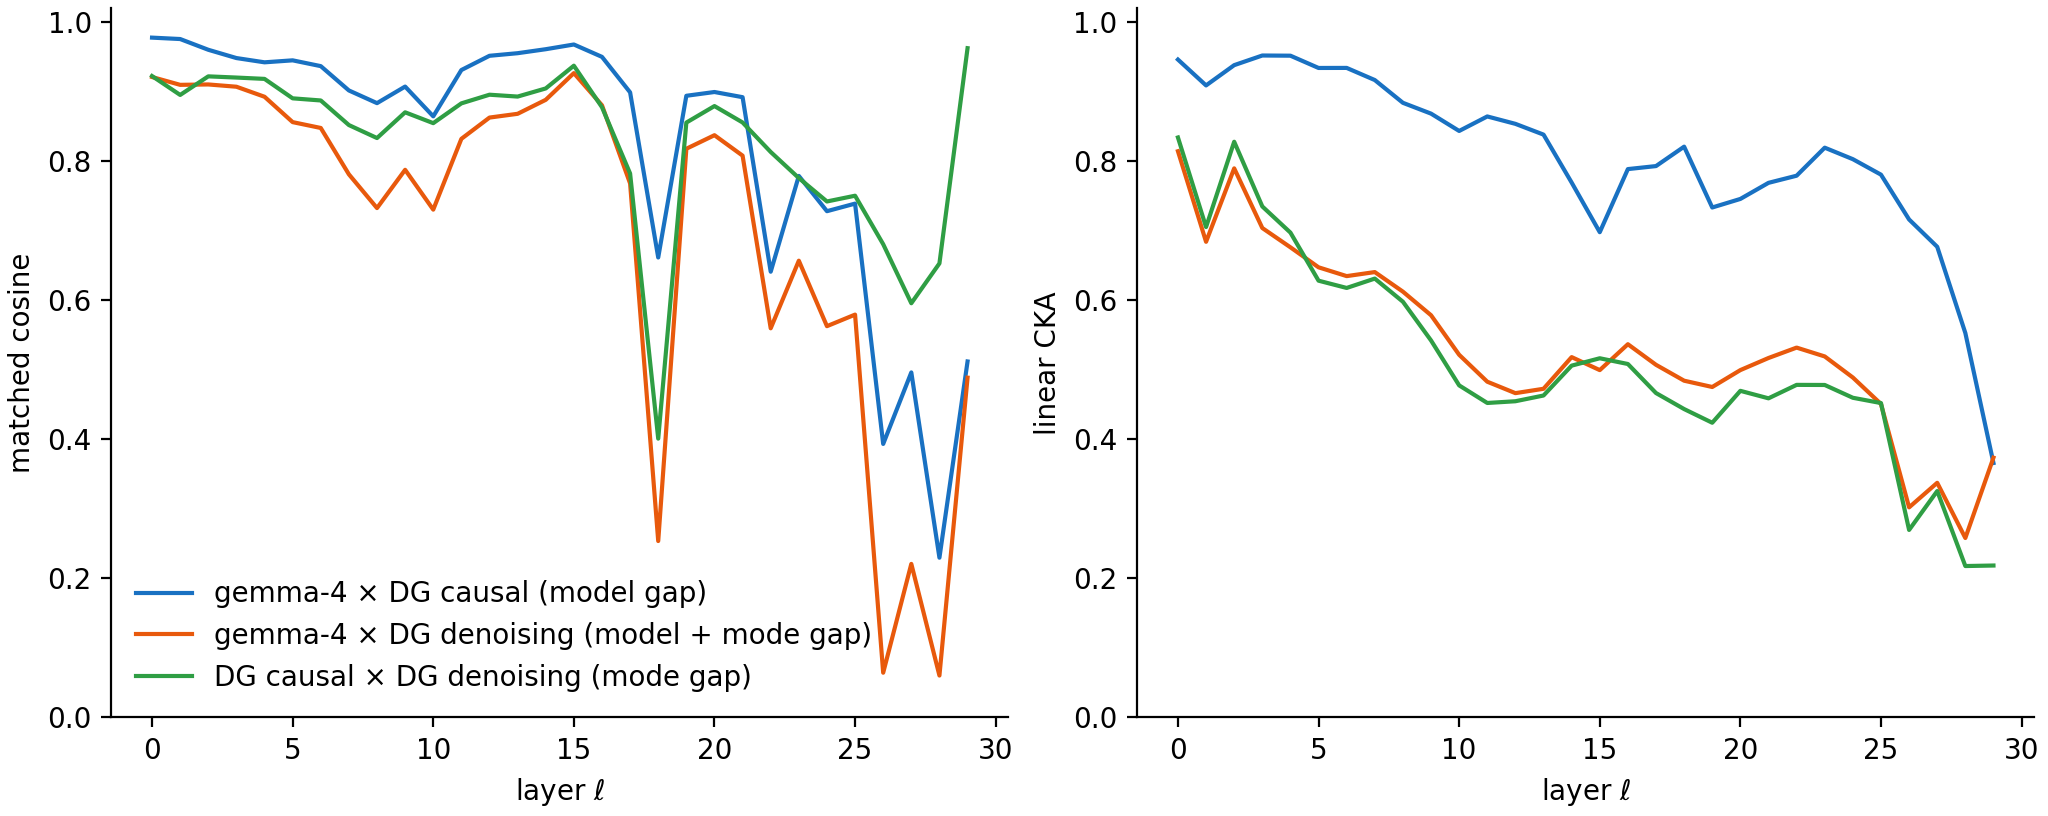
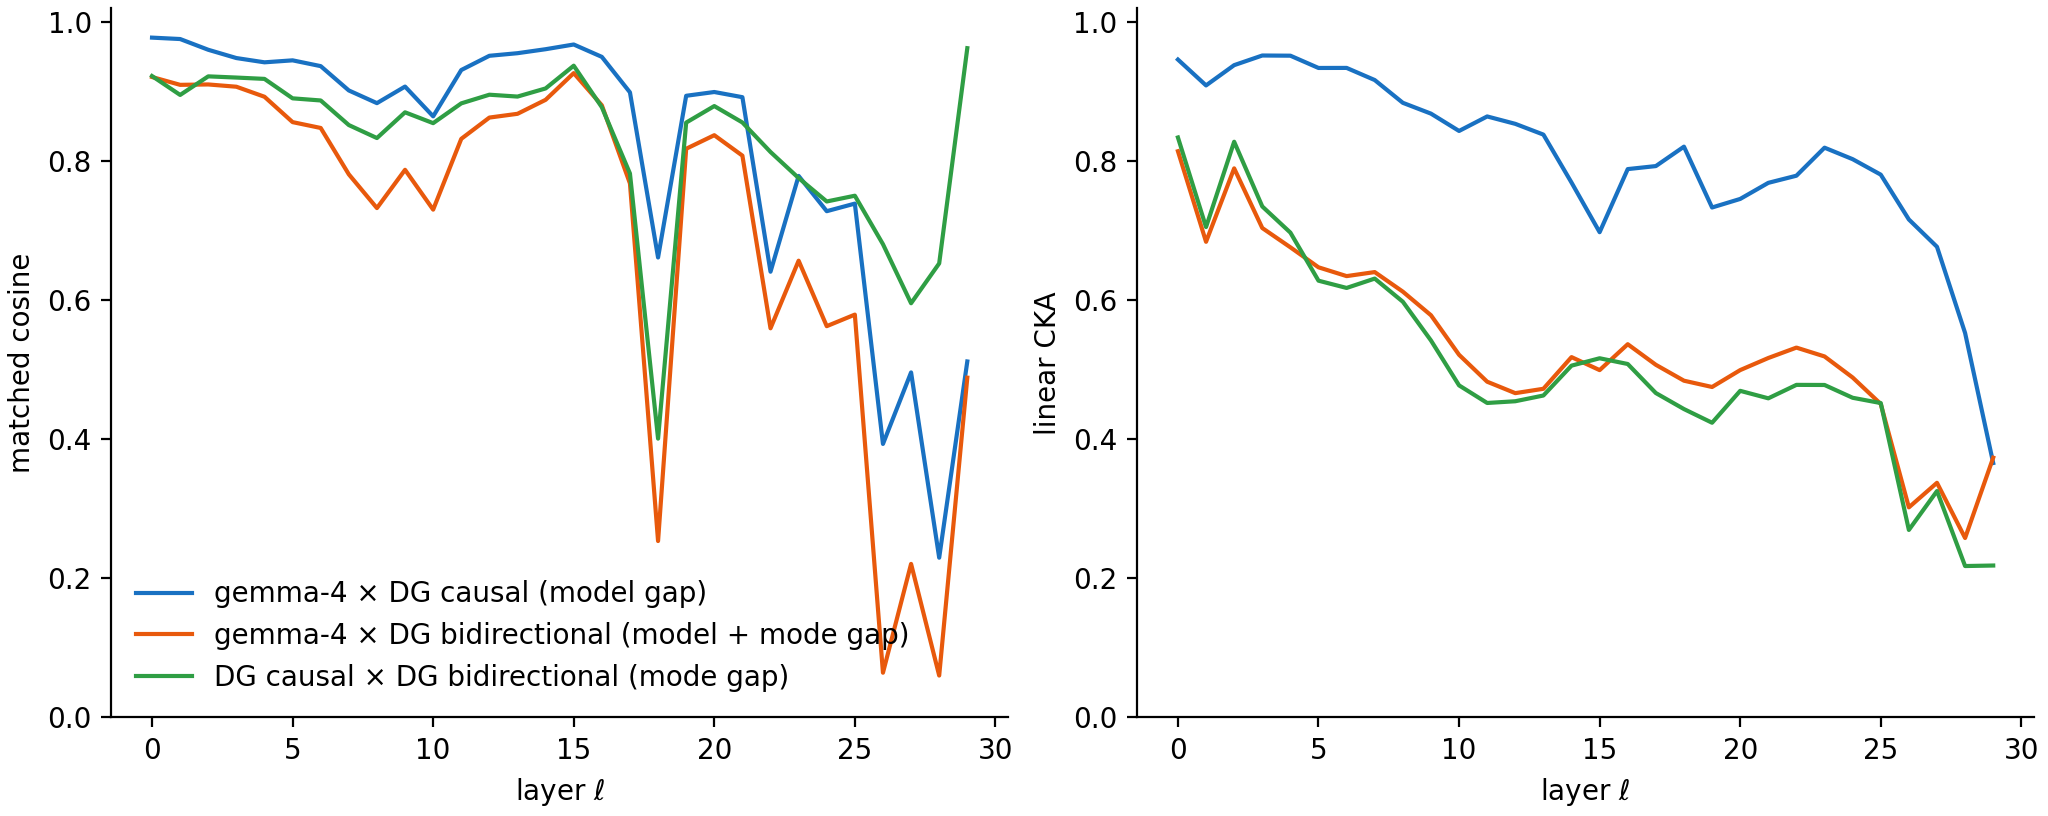
Rename mode label denoising -> bidirectional everywhere; J-Lens card highlights the lens read token
Claude-Session: https://claude.ai/code/session_01U8CiyQ7ySpBDkYEq4FzNBU

diff --git a/post.html b/post.html
@@ -42,6 +42,7 @@ p>em:first-child{color:var(--muted)}
 .anntok{display:inline-flex;flex-direction:column;align-items:center;vertical-align:top}
 .annlab{font-size:.8em;color:var(--muted);line-height:1.1}
 .kn{color:var(--muted);font-size:.9em;font-family:system-ui,sans-serif}
+.readtok{color:#fff;border-radius:3px;padding:0 .3em}
 .card u{text-decoration-color:var(--accent);text-underline-offset:2px}
 .lrow{display:flex;align-items:center;gap:5px;margin:3px 0;flex-wrap:wrap}
 .llab{font:600 .85em system-ui;color:var(--muted);width:2.4em}
@@ -73,7 +74,7 @@ code.gen.chip{padding:.15em .45em;border-radius:4px;white-space:pre}
 $$</p>
 <p>where $T$ is the number of diffusion steps. Importantly, $x_t$ attends bidirectionally to itself, and causally to $p$. $\mathbf{S}_t[x_t]$ also functions as a confidence score for any token $x_t$: unless a confidence threshold is passed, $x_t$ gets replaced with a random token at every step $t$, facilitating exploration and correction. Two consequences matter for this post: at such open positions the canvas carries no information from one step to the next — $\mathbf{S}_t$ is the only memory the model has there — and the pace of commitment is set by this confidence gate, so anything that artificially sharpens $\mathbf{S}_t$ (such as truncating it to its top-k entries) makes the gate commit more positions, earlier.</p>
 <p>For a visual and more detailed introduction to DiffusionGemma, see <a href="https://newsletter.maartengrootendorst.com/p/a-visual-guide-to-diffusiongemma">this post</a>.</p>
-<p>Thus, generation in DiffusionGemma differs in the following ways:</p>
+<p>Thus, generation in DiffusionGemma mainly differs in the following ways:</p>
 <ol><li>Generation happens as reverse diffusion, not as token-by-token autoregression. This is reminiscent of a looped transformer.</li><li>Attention is bidirectional.</li><li>Between every diffusion step, not only the current text output is sampled, but the output distributions $\mathbf{S}_t$ across all positions are also passed to the next diffusion step $t+1$.</li></ol>
 <p>The last point is especially interesting, since it passes the vector-valued object between diffusion steps, in addition to the tokens $x_t$ lacking the $|\mathcal{V}|$ axis. A priori, this allows the model to transport drastically more information between diffusion steps in an illegible way, hindering monitorability.</p>
 <h2>Performance degradation from top-k truncation largely is a sampler artifact</h2>
@@ -95,7 +96,7 @@ $$</p>
 <figure><img src="figs/fig2a_example_intervention.png" alt="Example intervention"></figure>
 <p>Example of one intervention: a subleading injection on ``<code>H</code>`<code> (the leader </code>`<code>G</code>`<code> keeps rank 1) swings the answer slot from </code>`<code>J</code>`<code>  to </code>`<code>K</code>`<code>=</code>`<code>H+3</code>``  one step later.</p>
 <h3>Parallelism</h3>
-<p>This simple response behavior begs the question whether it is possible to perturb $n>1$ source letters _simulteaneously_ (again, keeping them subleading) and see whether the corresponding target images respond. To this end, we measure responses $\langle R_c\rangle_{T_c}$ and $\langle R_c\rangle_{N_c}$ averaged over the target and non-target sets, respectively, and introduce the _effect_ $E_c = \langle R_c\rangle_{T_c} - \langle R_c\rangle_{N_c}$. Because we now inject mass at multiple positions and observe proportionally scaled response, we calculate a _normalized effect_ $NE$.</p>
+<p>This simple response behavior begs the question whether it is possible to perturb $n>1$ source letters _simultaneously_ (again, keeping them subleading) and see whether the corresponding target images respond. To this end, we measure responses $\langle R_c\rangle_{T_c}$ and $\langle R_c\rangle_{N_c}$ averaged over the target and non-target sets, respectively, and introduce the _effect_ $E_c = \langle R_c\rangle_{T_c} - \langle R_c\rangle_{N_c}$. Because we now inject mass at multiple positions and observe proportionally scaled response, we calculate a _normalized effect_ $NE$.</p>
 <figure><img src="figs/fig2b_triptych.png" alt="Parallelism triptych"></figure>
 <p>_DiffusionGemma does simultaneous letter arithmetic to about a capacity of $n=4$._</p>
 <p>This behavior is plausible considering the computation in question: a shift is easily implemented by a linear rotation in representation space. Therefore, superpositions of letters will be transported to superpositions of responses. Overall, this leaves an interpretable picture.</p>
@@ -105,14 +106,15 @@ $$</p>
 <h2>Appendix</h2>
 <p>The findings in Engels et al. and in this post have focussed on DiffusionGemma's behavior. We here study whether the model's representation supports the behavioral finding of high monitorability.</p>
 <h3>A1: Representation similarity (cosine &amp; CKA)</h3>
+<p>We first ask about how the representation changes between Gemma and DiffusionGemma. </p>
 <figure><img src="figs/figA1_rsa_cosine_cka.png" alt="RSA cosine and CKA"></figure>
-<p><em>Left: matched cosine; right: linear CKA (per layer, 3,584 texts). Mid-stack alignment is high across models and degrades from the deep global-attention layers on; the causal↔denoising mode switch — same weights — costs as much as the model gap (mean CKA 0.51 vs 0.81), and the gaps compound.</em></p>
+<p><em>Left: matched cosine; right: linear CKA (per layer, 3,584 texts). Mid-stack alignment is high across models and degrades from the deep global-attention layers on; the causal↔bidirectional mode switch — same weights — costs as much as the model gap (mean CKA 0.51 vs 0.81), and the gaps compound.</em></p>
 <h3>A2: Probe retention</h3>
 <figure><img src="figs/figA2_probe_retention.png" alt="Probe retention"></figure>
 <p><em>Top: mean held-out AUC (56 concepts, source-CV layer) — cross-model reading costs ~0.03 in both directions. Bottom: a held-out pair read by the same gemma-trained probe on both models' activations.</em></p>
 <h3>A3: Steering retention</h3>
 <figure><img src="figs/figA3_steer_retention.png" alt="Steering retention"></figure>
-<p><em>Top: blind-pair judge accuracy (judge must identify +steer vs −steer), 11 RepE tasks — every cell steers (0.70–0.85); denoising-mode directions are the weakest sources. Bottom: the same gemma-fit happiness direction applied to gemma-4 and DiffusionGemma side by side (±steer on one carrier); judge digests in italics.</em></p>
+<p><em>Top: blind-pair judge accuracy (judge must identify +steer vs −steer), 11 RepE tasks — every cell steers (0.70–0.85); bidirectional-mode directions are the weakest sources. Bottom: the same gemma-fit happiness direction applied to gemma-4 and DiffusionGemma side by side (±steer on one carrier); judge digests in italics.</em></p>
 <h3>A4: J-Lens retention</h3>
 <figure><img src="figs/figA4_jlens_retention.png" alt="J-Lens retention"></figure>
 <p><em>Top: mean GT-appearance score $A=1-e^{-n}$ ($n$ = matching top-20 lens tokens; 551 items) — fitted Jacobian lenses transfer across the AR/diffusion boundary (gemma→DG retention ≈0.76). Bottom: top-5 lens tokens per audited layer for one poetry item, read on gemma-4 vs DG residuals with the same DG-fit Jacobian — both streams surface the ground-truth intermediate ('death') at L20.</em></p>

diff --git a/scripts/build_html.py b/scripts/build_html.py
@@ -166,13 +166,20 @@ def ill_jlens_pair():
             + "".join(chip(tk) for tk in d["tops"][test][str(L)]) + "</div>"
             for L in d["layers"])
         return f'<div><h4>{lab}</h4>{rows}</div>'
+    READ = "#1971c2"
+    tail = d["tail"].strip()
+    pre, readtok = tail.rsplit(" ", 1)
+    tail_html = (f'<code class="gen">{E(pre)} '
+                 f'<span class="readtok" style="background:{READ}">{E(readtok)}</span></code>')
     return f"""<div class="card">
 {pills(f"{d['config_label']}, top-5 tokens per audited layer",
        f"item: {d['name']} ({d['set']})", f"ground-truth intermediate: {', '.join(d['intermediates'])}")}
-<p class="small">prompt tail: <code class="gen">{E(d['tail'].strip())}</code></p>
+<p class="small">prompt tail: {tail_html}</p>
 <div class="cols2">{side('g', 'read on gemma-4 residuals')}{side('dg', 'read on DG residuals')}</div>
 <span class="leg"><i style="background:{GT}"></i> ground-truth intermediate
-('{E(d['intermediates'][0])}', incl. variants) &nbsp;·&nbsp; layers deep → shallow</span>
+('{E(d['intermediates'][0])}', incl. variants)
+<i style="background:{READ}"></i> lens read position (residual at the final prompt token)
+&nbsp;·&nbsp; layers deep → shallow</span>
 </div>"""
 
 
@@ -226,6 +233,7 @@ p>em:first-child{color:var(--muted)}
 .anntok{display:inline-flex;flex-direction:column;align-items:center;vertical-align:top}
 .annlab{font-size:.8em;color:var(--muted);line-height:1.1}
 .kn{color:var(--muted);font-size:.9em;font-family:system-ui,sans-serif}
+.readtok{color:#fff;border-radius:3px;padding:0 .3em}
 .card u{text-decoration-color:var(--accent);text-underline-offset:2px}
 .lrow{display:flex;align-items:center;gap:5px;margin:3px 0;flex-wrap:wrap}
 .llab{font:600 .85em system-ui;color:var(--muted);width:2.4em}

diff --git a/scripts/figA4_jlens.py b/scripts/figA4_jlens.py
@@ -22,7 +22,7 @@ for k, v in jj["scores"].items():
     st, idx, cfg, test = k.split("|")
     if "A" in v:
         agg[(cfg, test)].append(v["A"]["score"])
-ROWS = [("g_shared", "gemma-4"), ("dgc_shared", "DG causal"), ("dgb_shared", "DG denoising")]
+ROWS = [("g_shared", "gemma-4"), ("dgc_shared", "DG causal"), ("dgb_shared", "DG bidirectional")]
 COLS = [("g", "gemma-4 residuals"), ("dg", "DG residuals")]
 M = np.array([[np.mean(agg[(r, c)]) for c, _ in COLS] for r, _ in ROWS])
 
@@ -49,7 +49,7 @@ it = next(x for x in ev["examples"] if x["name"] == "couplet-breath-death")
 LAYERS = [27, 20, 12, 4]
 out = {"name": it["name"], "set": it["set"], "tail": it["prompt_tail"],
        "intermediates": it["intermediates"], "config": CFG,
-       "config_label": "DG-denoising-fit Jacobian lens",
+       "config_label": "DG-bidirectional-fit Jacobian lens",
        "highlight": ["death", "died", "dying", "死亡"], "layers": LAYERS,
        "tops": {test: {str(L): it["tops"][f"{test}|{CFG}|L{L}"][:5] for L in LAYERS}
                 for test in ("g", "dg")}}

diff --git a/scripts/figA1_rsa.py b/scripts/figA1_rsa.py
@@ -15,8 +15,8 @@ SP = Path("/workspace-vast/jbauer/activation_oracles_dev/concept_probes/out/saep
 c = json.load(open(SP / "dg_rsa_cka_curves.json"))
 L = np.arange(c["n_layers"])
 PAIRS = [("g_enc", "gemma-4 × DG causal (model gap)", "#1971c2"),
-         ("g_dec", "gemma-4 × DG denoising (model + mode gap)", "#e8590c"),
-         ("enc_dec", "DG causal × DG denoising (mode gap)", "#2f9e44")]
+         ("g_dec", "gemma-4 × DG bidirectional (model + mode gap)", "#e8590c"),
+         ("enc_dec", "DG causal × DG bidirectional (mode gap)", "#2f9e44")]
 
 fig, axes = plt.subplots(1, 2, sharex=True, layout="constrained",
                          figsize=(plt.rcParams["figure.figsize"][0] * 1.6,

diff --git a/scripts/figA3_steer.py b/scripts/figA3_steer.py
@@ -23,7 +23,7 @@ for k, v in jp["pairs"].items():
     tag, pi, cell, prot, _ = k.split("|")
     if prot == "pr80" and "correct" in v:
         acc[cell].append(bool(v["correct"]))
-ROWS = [("g", "gemma-4 causal"), ("e", "DG causal"), ("c", "DG denoising")]
+ROWS = [("g", "gemma-4 causal"), ("e", "DG causal"), ("c", "DG bidirectional")]
 COLS = [("g", "gemma-4"), ("d", "DG")]
 M = np.array([[np.mean(acc[r + c]) for c, _ in COLS] for r, _ in ROWS])
 

diff --git a/post.md b/post.md
@@ -22,7 +22,7 @@ where $T$ is the number of diffusion steps. Importantly, $x_t$ attends bidirecti
 
 For a visual and more detailed introduction to DiffusionGemma, see [this post](https://newsletter.maartengrootendorst.com/p/a-visual-guide-to-diffusiongemma).
 
-Thus, generation in DiffusionGemma differs in the following ways:
+Thus, generation in DiffusionGemma mainly differs in the following ways:
 
 1. Generation happens as reverse diffusion, not as token-by-token autoregression. This is reminiscent of a looped transformer.
 2. Attention is bidirectional.
@@ -68,7 +68,7 @@ Example of one intervention: a subleading injection on ```H``` (the leader ```G`
 
 ### Parallelism
 
-This simple response behavior begs the question whether it is possible to perturb $n>1$ source letters _simulteaneously_ (again, keeping them subleading) and see whether the corresponding target images respond. To this end, we measure responses $\langle R_c\rangle_{T_c}$ and $\langle R_c\rangle_{N_c}$ averaged over the target and non-target sets, respectively, and introduce the _effect_ $E_c = \langle R_c\rangle_{T_c} - \langle R_c\rangle_{N_c}$. Because we now inject mass at multiple positions and observe proportionally scaled response, we calculate a _normalized effect_ $NE$.
+This simple response behavior begs the question whether it is possible to perturb $n>1$ source letters _simultaneously_ (again, keeping them subleading) and see whether the corresponding target images respond. To this end, we measure responses $\langle R_c\rangle_{T_c}$ and $\langle R_c\rangle_{N_c}$ averaged over the target and non-target sets, respectively, and introduce the _effect_ $E_c = \langle R_c\rangle_{T_c} - \langle R_c\rangle_{N_c}$. Because we now inject mass at multiple positions and observe proportionally scaled response, we calculate a _normalized effect_ $NE$.
 
 ![Parallelism triptych](figs/fig2b_triptych.png)
 
@@ -90,9 +90,11 @@ The findings in Engels et al. and in this post have focussed on DiffusionGemma's
 
 ### A1: Representation similarity (cosine & CKA)
 
+We first ask about how the representation changes between Gemma and DiffusionGemma. 
+
 ![RSA cosine and CKA](figs/figA1_rsa_cosine_cka.png)
 
-*Left: matched cosine; right: linear CKA (per layer, 3,584 texts). Mid-stack alignment is high across models and degrades from the deep global-attention layers on; the causal↔denoising mode switch — same weights — costs as much as the model gap (mean CKA 0.51 vs 0.81), and the gaps compound.*
+*Left: matched cosine; right: linear CKA (per layer, 3,584 texts). Mid-stack alignment is high across models and degrades from the deep global-attention layers on; the causal↔bidirectional mode switch — same weights — costs as much as the model gap (mean CKA 0.51 vs 0.81), and the gaps compound.*
 
 ### A2: Probe retention
 
@@ -104,7 +106,7 @@ The findings in Engels et al. and in this post have focussed on DiffusionGemma's
 
 ![Steering retention](figs/figA3_steer_retention.png)
 
-*Top: blind-pair judge accuracy (judge must identify +steer vs −steer), 11 RepE tasks — every cell steers (0.70–0.85); denoising-mode directions are the weakest sources. Bottom: the same gemma-fit happiness direction applied to gemma-4 and DiffusionGemma side by side (±steer on one carrier); judge digests in italics.*
+*Top: blind-pair judge accuracy (judge must identify +steer vs −steer), 11 RepE tasks — every cell steers (0.70–0.85); bidirectional-mode directions are the weakest sources. Bottom: the same gemma-fit happiness direction applied to gemma-4 and DiffusionGemma side by side (±steer on one carrier); judge digests in italics.*
 
 ### A4: J-Lens retention
 
